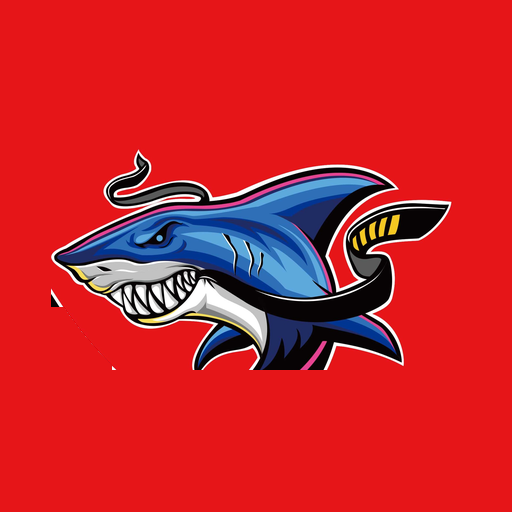
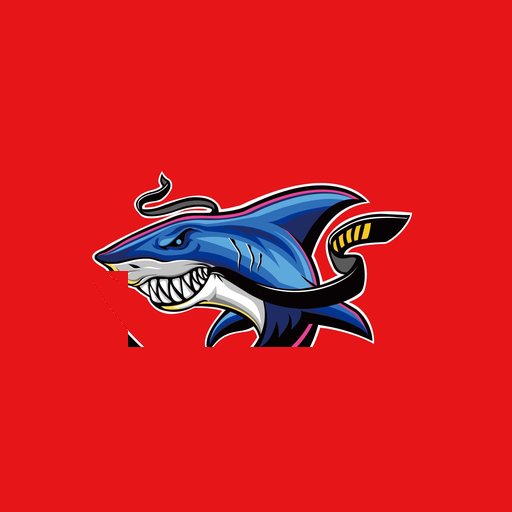
修正 Android 自適應圖示被裁切：maskable 鯊魚縮到64%安全區+清橫幅殘角，怎麼裁都不切到鯊魚；SW快取升v4

Changed region(s): [[0.0938, 0.2812, 0.875, 0.75], [0.0938, 0.5625, 0.125, 0.625]]

diff --git a/service-worker.js b/service-worker.js
@@ -5,7 +5,7 @@
    - 跨網域(Google Apps Script /exec、html2pdf CDN)與非 GET：完全不攔截，
      直接走網路 → 不影響 Google Sheet 串接、PDF 下載、LINE 分享
    ============================================================ */
-const CACHE = 'teampro-pwa-v3';
+const CACHE = 'teampro-pwa-v4';
 const SHELL = [
   './',
   './index.html',